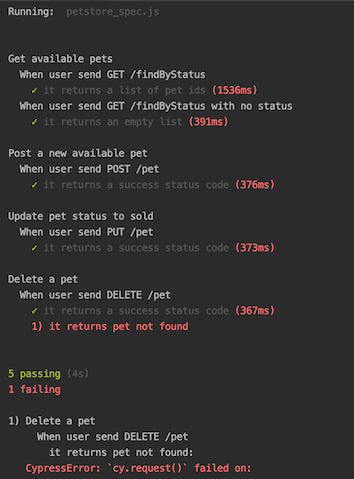
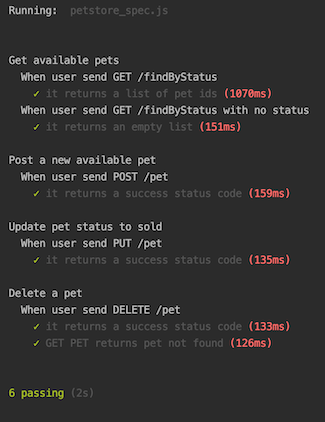
[SL] refactor api tests

diff --git a/exercise-1/cypress/support/commands.js b/exercise-1/cypress/support/commands.js
@@ -1,8 +1,7 @@
 import "@testing-library/cypress/add-commands"
-import "@bahmutov/cy-api/support"
 
 Cypress.Commands.add('findByStatus', (status) =>{
-    cy.api({
+    cy.request({
         method: 'GET',
         url: '/pet/findByStatus',
         headers: {
@@ -15,11 +14,11 @@ Cypress.Commands.add('findByStatus', (status) =>{
 })
 
 Cypress.Commands.add('getPet', (id) =>{
-    cy.api({
+    cy.request({
         method: 'GET',
         url: '/pet/'+id,
+        failOnStatusCode: false,
         headers: {
-            'Content-Type': 'application/json',
             'accept': 'application/json',
             'api_key': 'special-key'
         }
@@ -27,7 +26,7 @@ Cypress.Commands.add('getPet', (id) =>{
 })
 
 Cypress.Commands.add('addPet', () =>{
-    cy.api({
+    cy.request({
         method: 'POST',
         url: '/pet',
         headers: {
@@ -45,7 +44,7 @@ Cypress.Commands.add('addPet', () =>{
 })
 
 Cypress.Commands.add('updatePet', (petId) =>{
-    cy.api({
+    cy.request({
         method: 'PUT',
         url: '/pet',
         headers: {
@@ -64,13 +63,12 @@ Cypress.Commands.add('updatePet', (petId) =>{
 })
 
 Cypress.Commands.add('deletePet', (id) =>{
-    cy.api({
+    cy.request({
         method: 'DELETE',
         url: '/pet/'+id,
         failOnStatusCode: false,
         headers: {
             'Content-Type': 'application/json',
-            'accept': 'application/json',
             'api_key': 'special-key'
         }
 

diff --git a/exercise-1/cypress/integration/petstore_spec.js b/exercise-1/cypress/integration/petstore_spec.js
@@ -1,3 +1,5 @@
+const LosslessJSON = require('lossless-json');
+
 let petId;
 
 describe('Get available pets', () => {
@@ -33,6 +35,7 @@ describe('Post a new available pet', () => {
             cy.addPet().then((response) => {
                 expect(response.status).to.equal(200);
                 expect(response.body.id).is.not.null;
+                // actual id exceeds max integer value in JS and max.safe integer is returned now
                 petId=response.body.id;
             })
         })
@@ -65,7 +68,8 @@ describe('Delete a pet', () => {
             })
         })
 
-        it('it returns pet not found', () => {
+
+        it('GET PET returns pet not found', () => {
             cy.getPet(petId).then((response) => {
                 cy.log(JSON.stringify(response))
                 expect(response.status).to.eq(404)

diff --git a/exercise-1/cypress/support/index.js b/exercise-1/cypress/support/index.js
@@ -16,6 +16,7 @@
 // Import commands.js using ES2015 syntax:
 import './commands'
 import '@bahmutov/cy-api/support'
+import 'lossless-json'
 
 // Alternatively you can use CommonJS syntax:
 // require('./commands')
